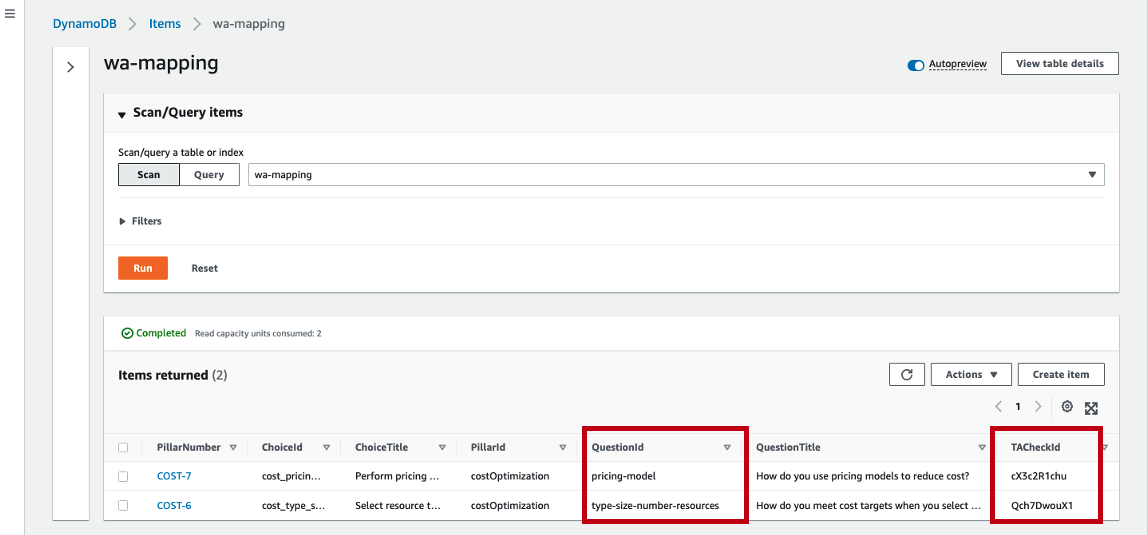
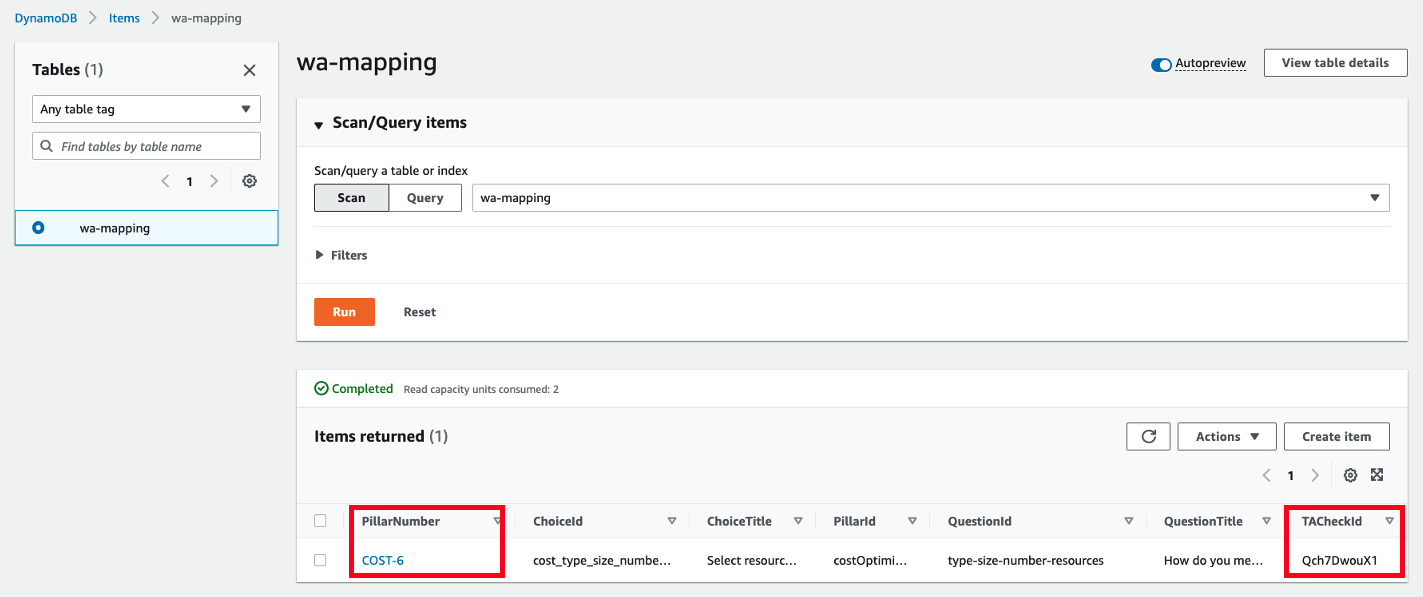
update screenshots

diff --git a/static/watool/200_Integration_with_AWS_Compute_Optimizer_and_AWS_Trusted_Advisor/Code/integration/src/trustedadvisor/costTA.js b/static/watool/200_Integration_with_AWS_Compute_Optimizer_and_AWS_Trusted_Advisor/Code/integration/src/trustedadvisor/costTA.js
@@ -62,7 +62,7 @@ async function getTAQ6( taCheckId, workloadTagKey, workloadTagValue,taCheckId){
 async function getTAQ7( taCheckId ){
     try{
         //console.log("questionId, taCheckId: ", questionId, taCheckId);
-        let notes = '[AWS Trusted Advisor]';
+        let notes = '[AWS Trusted Advisor]'+ '\n';
         const id = taCheckId;
         let name = '';
         //get check's name 

diff --git a/static/watool/200_Integration_with_AWS_Compute_Optimizer_and_AWS_Trusted_Advisor/Code/integration/src/questions/costQuestion.js b/static/watool/200_Integration_with_AWS_Compute_Optimizer_and_AWS_Trusted_Advisor/Code/integration/src/questions/costQuestion.js
@@ -1,4 +1,5 @@
 const AWS = require('aws-sdk');
+const currentRegion = process.env.AWS_REGION;
 const computeoptimizer = new AWS.ComputeOptimizer({ apiVersion: '2019-11-01', region: currentRegion });
 //const computeoptimizer = new AWS.ComputeOptimizer({ apiVersion: '2019-11-01', region: 'us-east-1' });
 const { date } = require('../libraries/date');

diff --git a/content/Well-ArchitectedTool/200_Labs/200_Integration_with_AWS_Compute_Optimizer_and_AWS_Trusted_Advisor/5_expand_review.md b/content/Well-ArchitectedTool/200_Labs/200_Integration_with_AWS_Compute_Optimizer_and_AWS_Trusted_Advisor/5_expand_review.md
@@ -6,7 +6,7 @@ pre: "<b>5. </b>"
 weight: 5
 ---
  
-![Section4 Integration](/watool/200_Integration_with_AWS_Compute_Optimizer_and_AWS_Trusted_Advisor/Images/section4/Integration.png)
+![Section4 Integration](/watool/200_Integration_with_AWS_Compute_Optimizer_and_AWS_Trusted_Advisor/Images/section4/TA_Aco_integration.png)
  
 ## Overview
 Now that we understood how to integrate AWS Compute Optimizer and AWS Trusted Advisor checks to review the question **COST 6. How do you meet cost targets when you select resource type, size and number**. 
@@ -19,6 +19,9 @@ As an example, you can see that the WorkloadID for the workload called **myappli
  
 2. With the workloadID, we can now retrieve the questionID using the [ListAnswers API](https://docs.aws.amazon.com/wellarchitected/latest/APIReference/API_ListAnswers.html).  
 ![QuestionId](/watool/200_Integration_with_AWS_Compute_Optimizer_and_AWS_Trusted_Advisor/Images/section5/questionID.png?classes=lab_picture_auto)
+
+3. Get AWS Trusted Advisor check ID that provides pricing model recommendations from [here](https://docs.aws.amazon.com/awssupport/latest/user/cost-optimization-checks.html#amazon-ec2-reserved-instances-optimization). **cX3c2R1chu** covers recommendations based on Standard Reserved Instances with the partial upfront payment option.
+![TACheckId](/watool/200_Integration_with_AWS_Compute_Optimizer_and_AWS_Trusted_Advisor/Images/section5/TACheckId.png?classes=lab_picture_auto)
  
 ## Update DynamoDB Mapping Table
 1. The next step is to update the mapping table with the questionID we've just retrieved and the Trusted Advisor Check ID that we would like to include in this question note. In this example, i'm going to include the Amazon EC2 Reserved Instance Optimzation check, this has check ID value as **cX3c2R1chu**
@@ -29,15 +32,6 @@ With that, I will navigate to **wa-mapping.json** and update the mapping table a
 {
     "tableName": "wa-mapping",
     "mappings": [
-        {
-            "PillarNumber": "COST-6",
-            "PillarId": "costOptimization",
-            "QuestionTitle": "How do you meet cost targets when you select resource type, size and number?",
-            "QuestionId": "type-size-number-resources",
-            "ChoiceTitle": "Select resource type, size, and number based on data",
-            "ChoiceId": "cost_type_size_number_resources_data",
-            "TACheckId": "Qch7DwouX1"
-        },
         {            
             "PillarNumber": "COST-7",
             "PillarId": "costOptimization",
@@ -53,7 +47,7 @@ With that, I will navigate to **wa-mapping.json** and update the mapping table a
 Now we are going to update AWS DynamoDB table with the updated json file through API Gateway provision in the the [previous step](../2_configure_env/).
 * Replace **APIGWUrl** with your APIGWUrl that you deployed previously.
 ```
-curl --header "Content-Type: application/json" -d @mappings/wa-mapping.json -v POST {APIGWUrl}
+curl --header "Content-Type: application/json" -d @mappings/wa-mapping-new-question.json -v POST {APIGWUrl} 
  
 ```
 Confirm that UnprocessedItems appear to be empty, which means you successfully put items into AWS DynamoDB. 
@@ -62,7 +56,7 @@ In AWS DynamoDB console, click **wa-mapping** you just deployed and click **Expl
 ![Section2 Table](/watool/200_Integration_with_AWS_Compute_Optimizer_and_AWS_Trusted_Advisor/Images/section2/Table.png)
 ![Section2 Explore](/watool/200_Integration_with_AWS_Compute_Optimizer_and_AWS_Trusted_Advisor/Images/section2/Explore.png)
 There are 2 Question IDs of Well-Architected questions and 2 AWS Trusted Advisor checks.
-![Section2 Items](/watool/200_Integration_with_AWS_Compute_Optimizer_and_AWS_Trusted_Advisor/Images/section2/Items.png)
+![Section2 Items](/watool/200_Integration_with_AWS_Compute_Optimizer_and_AWS_Trusted_Advisor/Images/section5/Items.png)
  
 ## Create a Well-Architected Workload with Tags
 Refer to the [previous section](../3_create_workload/) to create new Well-Architected Workload With Tags
